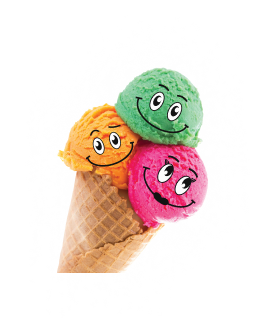
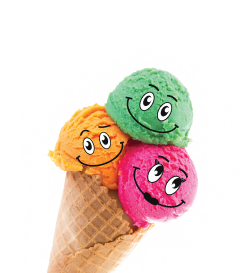
group dots was changed

diff --git a/src/sass/_heroheader.scss b/src/sass/_heroheader.scss
@@ -4,10 +4,10 @@
 .page-header_container {
   position: relative;
   padding-bottom: 239px;
-  background-image: url(../images/mobile/mobile-dots@1x.png);
-  background-repeat: no-repeat;
-  background-size: contain;
-  background-position: bottom;
+//   background-image: url(../images/mobile/mobile-dots@1x.png);
+//   background-repeat: no-repeat;
+//   background-size: contain;
+//   background-position: bottom;
 }
 .page-header_wrapper {
   display: flex;
@@ -104,29 +104,15 @@
     color: var(--button-disable-color);
   }
 }
-@media screen and (max-width: 479px) {
-  .header-nav {
-    display: none;
-  }
-  .order-menu-btn {
-    display: none;
-  }
-  .hero-info {
-    display: none;
-  }
-  .hero-pic-box {
-    display: none;
-  }
-  .hero-pic-aside__ice-cream {
+.hero-dots__pic {
     position: absolute;
-    z-index: 3;
-    bottom: 10%;
-    left: 25%;
-    max-width: 170px;
-    height: 219px;
-  }
+    z-index: 2;
+    width: 100%;
+    bottom: 0;
+    left: 0;
+   
 }
-@media screen and (min-width: 480px) {
+@media screen and (max-width: 767px) {
   .header-nav {
     display: none;
   }
@@ -142,8 +128,8 @@
   .hero-pic-aside__ice-cream {
     position: absolute;
     z-index: 3;
-    bottom: 10%;
-    left: 18%;
+    bottom: 10.5%;
+    left: 10%;
     max-width: 170px;
     height: 219px;
   }
@@ -151,9 +137,9 @@
 @media screen and (min-device-pixel-ratio: 2) and (max-width: 767px),
   screen and (min-resolution: 192dpi) and (max-width: 767px),
   screen and (min-resolution: 2dppx) and (max-width: 767px) {
-  .page-header_container {
-    background-image: url(../images/mobile/mobile-dots@2x.png);
-  }
+//   .page-header_container {
+//     background-image: url(../images/mobile/mobile-dots@2x.png);
+//   }
 }
 @media screen and (min-width: 768px) {
   .page-header_container {
@@ -161,7 +147,7 @@
     padding-right: 32px;
     padding-bottom: 193px;
     position: relative;
-    background-image: url(../images/tablet/tablet-dots@1x.png);
+    // background-image: url(../images/tablet/tablet-dots@1x.png);
   }
   .header-nav {
     display: none;
@@ -271,7 +257,7 @@
   .hero-pic-box {
     display: flex;
     align-items: center;
-    z-index: 2;
+    z-index: 3;
     gap: 33px;
     position: absolute;
     left: 32px;
@@ -300,9 +286,9 @@
 @media screen and (min-device-pixel-ratio: 2) and (min-width: 768px),
   screen and (min-resolution: 192dpi) and (min-width: 768px),
   screen and (min-resolution: 2dppx) and (min-width: 768px) {
-  .page-header_container {
-    background-image: url(../images/tablet/tablet-dots@2x.png);
-  }
+//   .page-header_container {
+//     background-image: url(../images/tablet/tablet-dots@2x.png);
+//   }
 }
 @media screen and (min-width: 1200px) {
   .page-header_container {
@@ -310,7 +296,7 @@
     padding-right: 16px;
     padding-bottom: 332px;
     position: relative;
-    background-image: url(../images/desktop/desctop-dots@1x.png);
+    // background-image: url(../images/desktop/desctop-dots@1x.png);
   }
   .header-nav {
     display: flex;
@@ -445,7 +431,7 @@
   }
   .hero-pic-aside__ice-cream {
     position: absolute;
-    z-index: 1;
+    z-index: 3;
     bottom: 10%;
     left: 47%;
     width: 484px;
@@ -455,9 +441,9 @@
 @media screen and (min-device-pixel-ratio: 2) and (min-width: 1200px),
   screen and (min-resolution: 192dpi) and (min-width: 1200px),
   screen and (min-resolution: 2dppx) and (min-width: 1200px) {
-  .page-header_container {
-    background-image: url(../images/desktop/desctop-dots@2x.png);
-  }
+//   .page-header_container {
+//     background-image: url(../images/desktop/desctop-dots@2x.png);
+//   }
 }
 // --------------------------------------- ANIMATION ---------------------------------------
 .logo {

diff --git a/src/partials/heroheader.html b/src/partials/heroheader.html
@@ -78,13 +78,29 @@
         <div class="hero-pic-aside">
             <picture class="hero-pic-aside__ice-cream">
                 <source srcset="./images/desktop/desctop-ice-cream-in-horn@1x.png 1x,
-                                    ./images/desktop/desctop-ice-cream-in-horn@2x.png 2x"
-                    media="(min-width: 1200px)"/>
+                                ./images/desktop/desctop-ice-cream-in-horn@2x.png 2x"
+                                media="(min-width: 1200px)"/>
                 <source srcset="./images/tablet/tablet-ice-cream-in-horn@1x.png 1x,
-                                    ./images/tablet/tablet-ice-cream-in-horn@2x.png 2x" media="(min-width: 768px)"/>
+                                ./images/tablet/tablet-ice-cream-in-horn@2x.png 2x" 
+                                media="(min-width: 768px)"/>
                 <source srcset="./images/mobile/mobile-ice-cream-in-horn@1x.png 1x,
-                                    ./images/mobile/mobile-ice-cream-in-horn@2x.png 2x" media="(max-width: 767px)"/>
+                                ./images/mobile/mobile-ice-cream-in-horn@2x.png 2x" 
+                                media="(max-width: 767px)"/>
                 <img aria-label="ice-cream-in-horn" src="./images/mobile/mobile-ice-cream-in-horn@1x.png"/>
+            </picture>
+        </div>
+        <div class="hero-dots">
+            <picture class="hero-dots__pic">
+                <source srcset="./images/desktop/desctop-dots@1x.png 1x,
+                                ./images/desktop/desctop-dots@2x.png 2x"
+                                media="(min-width: 1200px)"/>
+                <source srcset="./images/tablet/tablet-dots@1x.png 1x,
+                                ./images/tablet/tablet-dots@2x.png 2x"
+                                media="(min-width: 768px)"/>
+                <source srcset="./images/mobile/mobile-dots@1x.png 1x,
+                                ./images/mobile/mobile-dots@2x.png 2x"
+                                media="(max-width: 767px)"/>
+                <img aria-label="dots" src="./images/mobile/mobile-dots@1x.png"/>
             </picture>
         </div>
     </div>
